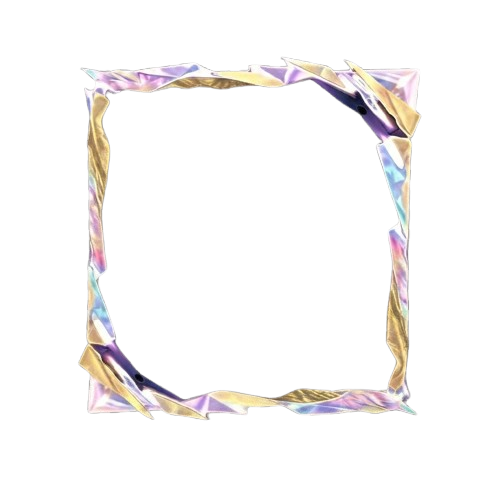
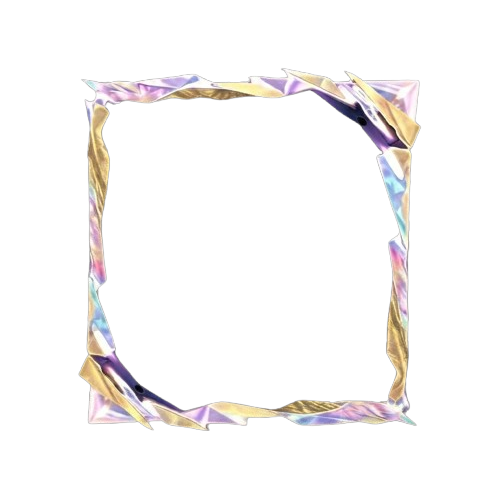
fitur baru

Changed region(s): [[0.15, 0.12, 0.84, 0.87]]

diff --git a/static/css/border_imortal.css b/static/css/border_imortal.css
@@ -1,7 +1,20 @@
 /* ============================================================
-   border_imortal.css (v4 - ganti gambar border ke versi baru)
+   border_imortal.css (v5 - fix presisi gambar border_imortal.jpg)
    ------------------------------------------------------------
-   RIWAYAT SINGKAT:
+   CATATAN v5 (SEKARANG): dicek ulang pakai bounding-box non-transparan
+   yang sebenarnya di file border_imortal.jpg yang sedang aktif, dan
+   ternyata margin-nya masih asimetris persis seperti bug lama yang
+   didokumentasikan di v1/v2 di bawah (atas 56px vs bawah 79px,
+   selisih 23px) -- kiri/kanan sendiri sudah pas (78px/78px). Artinya
+   file gambar yang kepasang belakangan ini BUKAN versi yang sudah
+   di-crop-presisi seperti diklaim catatan v4, jadi bug-nya balik lagi
+   walau CSS-nya sendiri tidak berubah. File border_imortal.jpg sudah
+   di-crop presisi ke bounding box lalu di-center ulang di kanvas
+   500x500 yang sama (margin baru: kiri 78px/kanan 79px, atas 68px/
+   bawah 69px -- beda 1px murni pembulatan). CSS di bawah TIDAK perlu
+   diubah, cukup timpa file gambarnya dengan yang baru.
+
+   RIWAYAT SEBELUMNYA:
    - v1/v2: gambar lama asimetris (margin atas 56px vs bawah 79px)
      -> berbagai trik offset CSS gagal karena masalahnya ada di
      gambar, bukan CSS.
